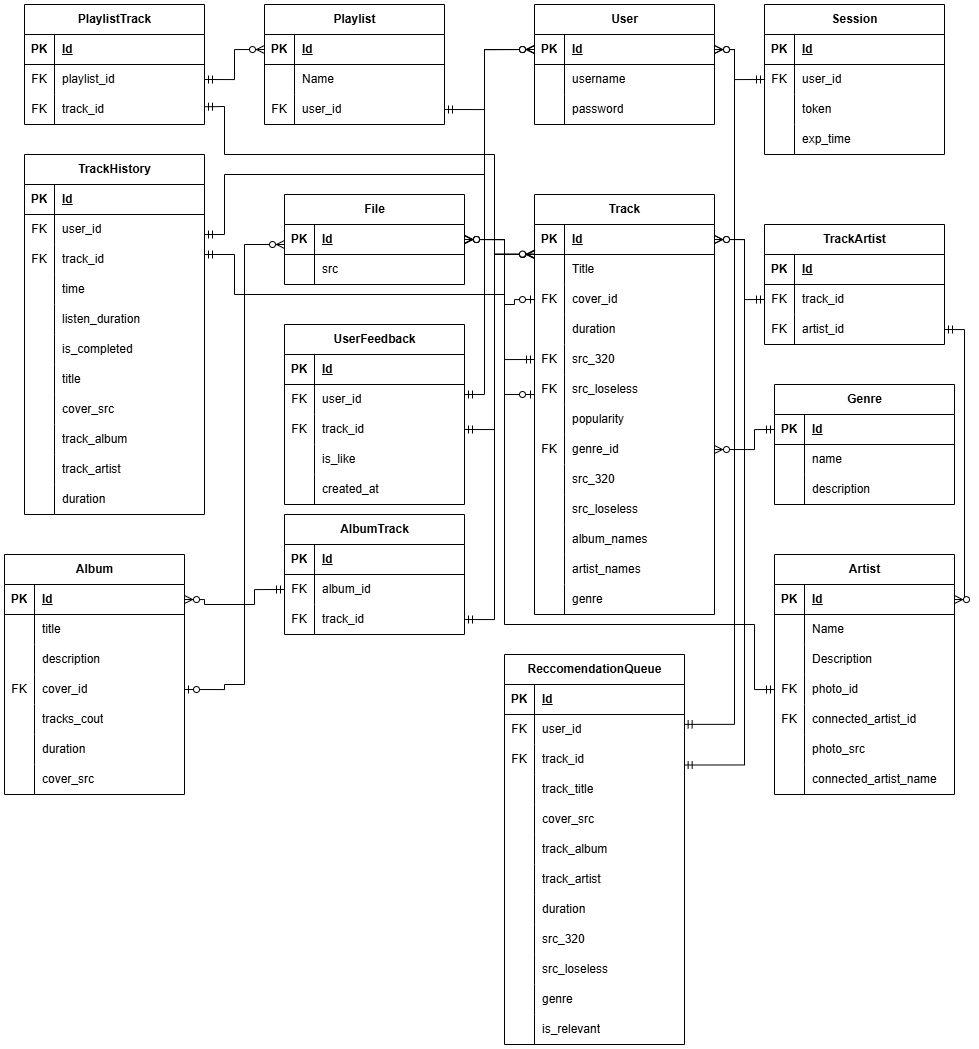
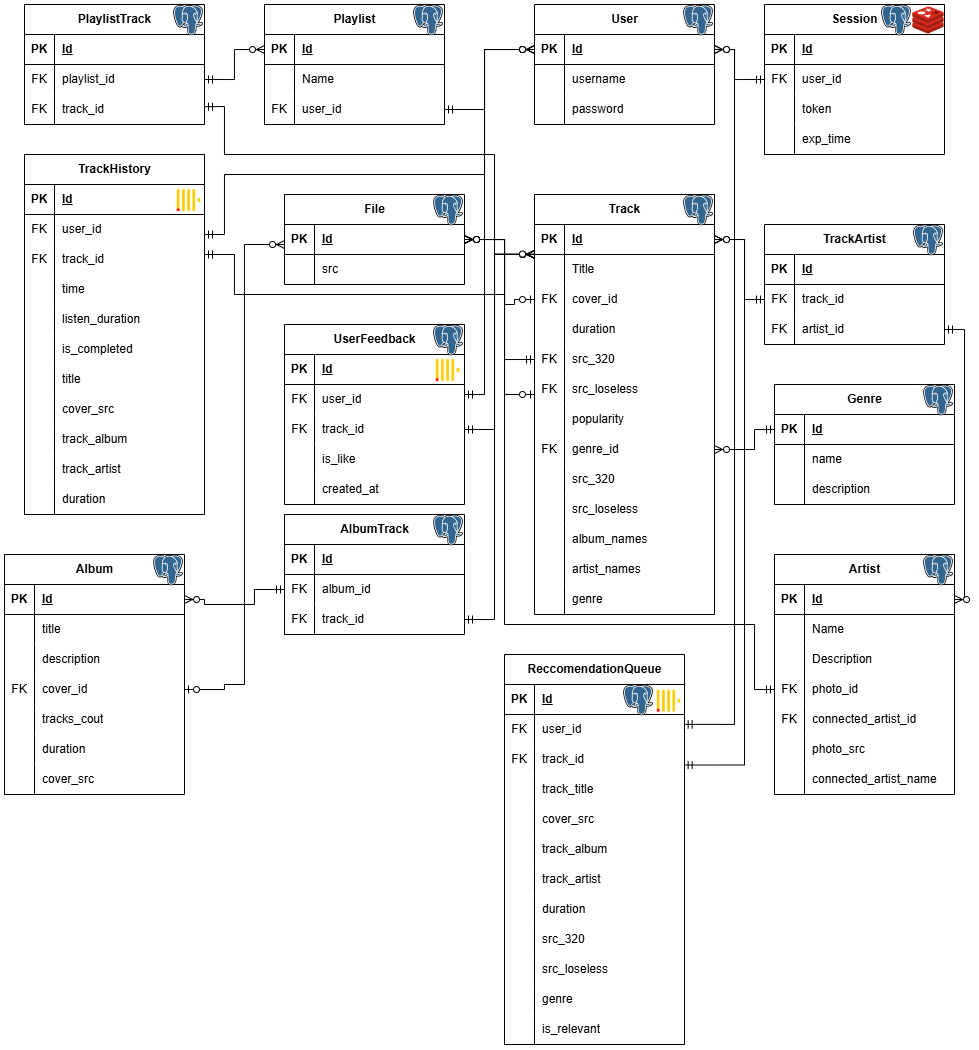
feat: add lr 6

diff --git a/README.md b/README.md
@@ -445,9 +445,9 @@ $$
 |                     |  Запись  |   -   |             -              |    -    |                                                    Относительно мало записей |
 | Session             |  Чтение  |  333  |             1              |   333   |                                                                              |
 |                     |  Запись  |   -   |             -              |    -    |                                                    Относительно мало записей |
-| Artist              |  Чтение  | 19423 |             1              |  19423  |              Поиск, кроме того всегда нужен при получении информации о треке |
+| Artist              |  Чтение  | 19423 |             1              | 1648548 |              Поиск, кроме того всегда нужен при получении информации о треке |
 |                     |  Запись  |   -   |             -              |    -    |                                                                              |
-| TrackArtist         |  Чтение  | 19423 |             1              |  19423  |              Поиск, кроме того всегда нужен при получении информации о треке |
+| TrackArtist         |  Чтение  | 19423 |             1              | 1648548 |              Поиск, кроме того всегда нужен при получении информации о треке |
 |                     |  Запись  |   -   |             -              |    -    |                                                                              |
 | Album               |  Чтение  |  423  |             50             |  21150  |                                                                        Поиск |
 |                     |  Запись  |   -   |             -              |    -    |                                                                              |
@@ -461,13 +461,13 @@ $$
 |                     |  Запись  | 19000 |             1              |  19000  |                               Слушают часто, постоянно запись о прослушенных |
 | ReccomendationQueue |  Чтение  | 16150 |            100             | 1615000 | Планируется, что сервисом рекомендаций пользуется не менее 85% пользователей |
 |                     |  Запись  |  66   |             25             |  1650   |                                       Часто надо получать информацию о треке |
-| Track               |  Чтение  | 19000 |             1              |  19000  |                                                                              |
+| Track               |  Чтение  | 19000 |             1              | 1648585 |                                                                              |
 |                     |  Запись  |   -   |             -              |    -    |                 Информация нужна как для трека, так и для авторов и альбомов |
-| File                |  Чтение  | 38846 |             1              |  38846  |                                                                              |
+| File                |  Чтение  | 38846 |             1              | 3297133 |                                                                              |
 |                     |  Запись  |   -   |             -              |    -    |                                                      Треки редко добавляются |
 | UserFeedback        |  Чтение  |   -   |             -              |    -    |                                                                              |
 |                     |  Запись  |  333  |             1              |   333   |                                Всегда нужен при получении информации о треке |
-| Genre               |  Чтение  | 19000 |             1              |  19000  |                                                                              |
+| Genre               |  Чтение  | 19000 |             1              | 1640125 |                                                                              |
 |                     |  Запись  |   -   |             -              |    -    |                                                      Треки редко добавляются |
 
 ### 5.2.16 Занимаемое место
@@ -510,70 +510,62 @@ $$
 | Genre               |                id                |                          Равномерное |
 
 # 6 Физическая схема базы данных
-## 6.1 Обновлённый размер данных
-### 6.1.1 User
 
-| Id     | Username |    password    |    Итого |
-| :----- | :------: | :------------: | -------: |
-| 8 байт | 256 байт | 32 байта (хэш) | 296 байт |
+## 6.1 Денормализованная схема
+
+![схема](./images/db-new-denorm.png)
+
+## 6.2 Таблицы
 
 
-### 5.2.2 Session
+| Таблица             |         СУБД          |     Шардирование     |  Партиции  |                   Резервирование                    |                                             Комментарии |
+| :------------------ | :-------------------: | :------------------: | :--------: | :-------------------------------------------------: | ------------------------------------------------------: |
+| User                |       Postgres        |          -           |     -      |                1 master + 2 replica                 |     Невысокая нагрузка, малый потенциальный вес индекса |
+| Session             |   Postgres + Redis    |   Только для Redis   |     -      | PG: 1 master + 2 replica; Redis: 3 master + 3 slave |         Redis кеширует недавние сессии, все сессии в PG |
+| Artist              |       Postgres        |          -           |     -      |                1 master + 2 replica                 |                       Малая нагрузка при денормализации |
+| TrackArtist         |       Postgres        |          -           |     -      |                1 master + 2 replica                 |                       Малая нагрузка при денормализации |
+| Album               |       Postgres        |          -           |     -      |                1 master + 2 replica                 |     Невысокая нагрузка, малый потенциальный вес индекса |
+| AlbumTrack          |       Postgres        |          -           |     -      |                1 master + 2 replica                 |     Невысокая нагрузка, малый потенциальный вес индекса |
+| Playlist            |       Postgres        |          -           |     -      |                1 master + 2 replica                 |     Невысокая нагрузка, малый потенциальный вес индекса |
+| PlaylistTrack       |       Postgres        |          -           |     -      |                1 master + 2 replica                 |     Невысокая нагрузка, малый потенциальный вес индекса |
+| TrackHistory        |      ClickHouse       |          -           | 30 по time |            1 реплика на каждую партицию             |                В основном используется для рекомендаций |
+| ReccomendationQueue | Postgres + ClickHouse | 16 шардов по user_id |     -      |                  1 реплика на шард                  |                   Наиболее загружена при денормализации |
+| Track               |       Postgres        |          -           |     -      |                1 master + 2 replica                 |              При денормализации нагрузка сильно снижена |
+| File                |       Postgres        |          -           |     -      |                1 master + 2 replica                 |         Почти не используется в денормализованной схеме |
+| UserFeedback        | Postgres + ClickHouse |          -           |     -      |                1 master + 2 replica                 | Малая нагрузка на запись, используется для рекомендаций |
+| Genre               |       Postgres        |          -           |     -      |                          -                          | Справочник, можно хранить на всех узлах локальную копию |
 
-| Id     | user_id |   token    | exp_time |     Итого |
-| :----- | :-----: | :--------: | :------: | --------: |
-| 8 байт | 8 байт  | 1536 байта |  8 байт  | 1560 байт |
+## 6.3 Индексы
 
-### 5.2.3 Artist
+| Таблица             |                                       Индексы                                       |
+| :------------------ | :---------------------------------------------------------------------------------: |
+| User                |                               IDX(id), IDX(username)                                |
+| Session             |                                 IDX(id), IDX(token)                                 |
+| Artist              |                                 IDX(id), IDX(name)                                  |
+| TrackArtist         |                          IDX(id), IDX(track_id, artist_id)                          |
+| Album               |                                 IDX(id), IDX(title)                                 |
+| AlbumTrack          |                          IDX(id), IDX(album_id, track_id)                           |
+| Playlist            |                             IDX(id), IDX(user_id, name)                             |
+| PlaylistTrack       |                         IDX(id), IDX(playlist_id, track_id)                         |
+| TrackHistory        |                IDX(id), IDX(user_id, trakc_id), IDX(user_id, title)                 |
+| ReccomendationQueue |   IDX(id), IDX(user_id, trakc_id), IDX(user_id, genre), IDX(user_id, is_relevant)   |
+| Track               | IDX(id), IDX(title), IDX(album_names), IDX(artist_names), IDX(genre_id), IDX(genre) |
+| File                |                                       IDX(id)                                       |
+| UserFeedback        |          IDX(id), IDX(track_id), IDX(user_id, track_id) IDX(user_id, like)          |
+| Genre               |                                 IDX(id), INX(name)                                  |
 
-| Id     |   Name   | Description | photo_src | connected_artist_id | connected_artist_name |     Итого |
-| :----- | :------: | :---------: | :-------: | :-----------------: | :-------------------: | --------: |
-| 8 байт | 256 байт |  1024 байт  | 512 байт  |       8 байт        |       256 байт        | 2064 байт |
+## 6.3 Балансировка запросов / мультиплексирование подключений
 
-### 5.2.4 TrackArtist
+| Данные      |     Таблицы для балансировки      |                                                                                            Комментарий |
+| :---------- | :-------------------------------: | -----------------------------------------------------------------------------------------------------: |
+| PostgreSQL  | TrackHistory, ReccomendationQueue | Наиболее нагруженные таблицы, с большими индексами. Чтение и запись разделены между основой и репликой |
+| Redis       |              Session              |                      Кластер, для обеспечения отказоустойчивости и увеличения производительности кеша. |
+| Медиаданные |                 -                 |                                                                                                    CDN |
 
-| Id     | track_id | artist_id |    Итого |
-| :----- | :------: | :-------: | -------: |
-| 8 байт |  8 байт  |  8 байт   | 24 байта |
+## 6.4 Схема резервного копирования
 
-### 5.2.5 Album
-
-| Id     |  title   | description | cover_src | tracks_count | duration |     Итого |
-| :----- | :------: | :---------: | :-------: | :----------: | :------: | --------: |
-| 8 байт | 256 байт |  1024 байт  | 512 байт  |   4 байта    | 4 байта  | 1808 байт |
-
-### 5.2.6 AlbumTrack
-
-| Id     | album_id | track_id |    Итого |
-| :----- | :------: | :------: | -------: |
-| 8 байт |  8 байт  |  8 байт  | 24 байта |
-
-### 5.2.7 PlaylistTrack
-
-| Id     | playlist_id | track_id |    Итого |
-| :----- | :---------: | :------: | -------: |
-| 8 байт |   8 байт    |  8 байт  | 24 байта |
-
-### 5.2.8 Playlist
-
-| Id     |   Name   | user_id |   Итого   |
-| :----- | :------: | :-----: | :-------: |
-| 8 байт | 256 байт | 8 байт  | 272 байта |
-
-### 5.2.9 ReccomendationQueue
-
-| Id     | user_id | track_id | track_title | cover_src | track_album | track_artist | duration | src_320  | src_loseless | is_relevant |     Итого |
-| :----- | :-----: | :------: | :---------: | :-------: | :---------: | :----------: | :------: | :------: | :----------: | :---------: | --------: |
-| 8 байт | 8 байт  |  8 байт  |  256 байт   | 512 байт  |  256 байт   |   256 байт   | 4 байта  | 512 байт |   512 байт   |   1 байт    | 2333 байт |
-
-### 5.2.10 TrackHistory
-
-| Id     | user_id | track_id |  time  |  score  | cover_src | track_album | track_artist |  title   | duration |   Итого    |
-| :----- | :-----: | :------: | :----: | :-----: | :-------: | :---------: | :----------: | :------: | :------: | :--------: |
-| 8 байт | 8 байт  |  8 байт  | 8 байт | 2 байта | 512 байт  |  256 байт   |   256 байт   | 256 байт | 4 байта  | 1318 байта |
-
-### 5.2.11 Track
-
-| Id     |  Title   | cover_src | duration | src_320  | src_loseless | album_names | artist_names |     Итого |
-| :----- | :------: | :-------: | :------: | :------: | :----------: | :---------: | :----------: | --------: |
-| 8 байт | 256 байт | 512 байт  | 4 байта  | 512 байт |   512 байт   |  512 байт   |   512 байт   | 2828 байт |
+| Данные      |      Описание резервирования |
+| :---------- | ---------------------------: |
+| PostgreSQL  | PG_DUMP раз в сутки + RAID 5 |
+| Redis       |    RDB snapshots раз в сутки |
+| Медиаданные |                       RAID 5 |
